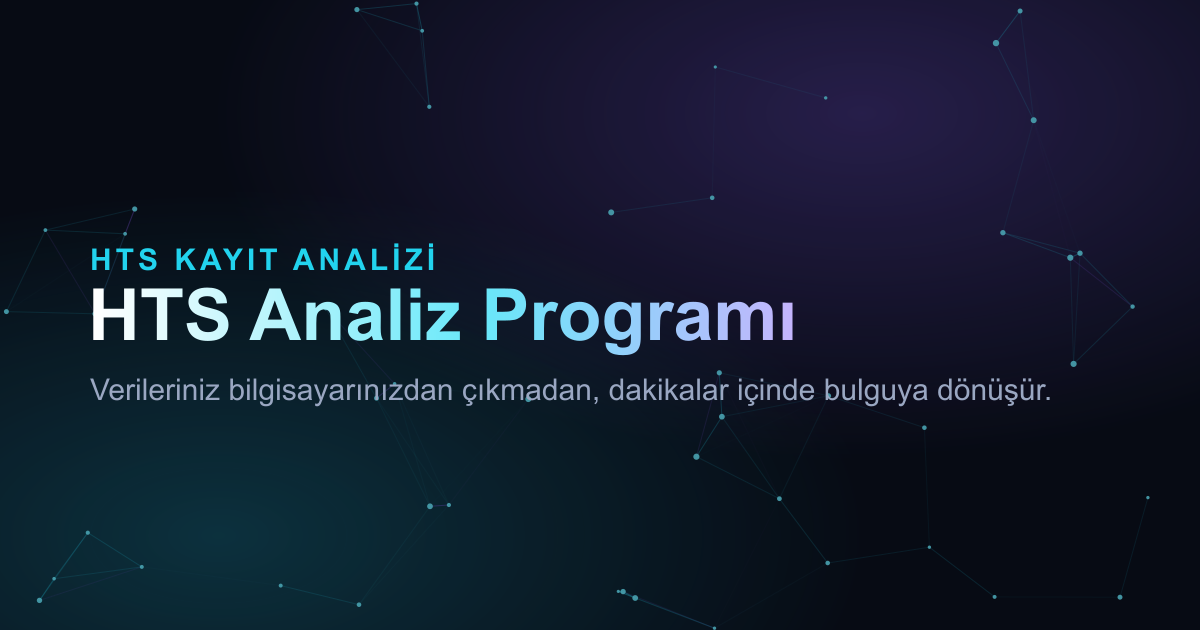
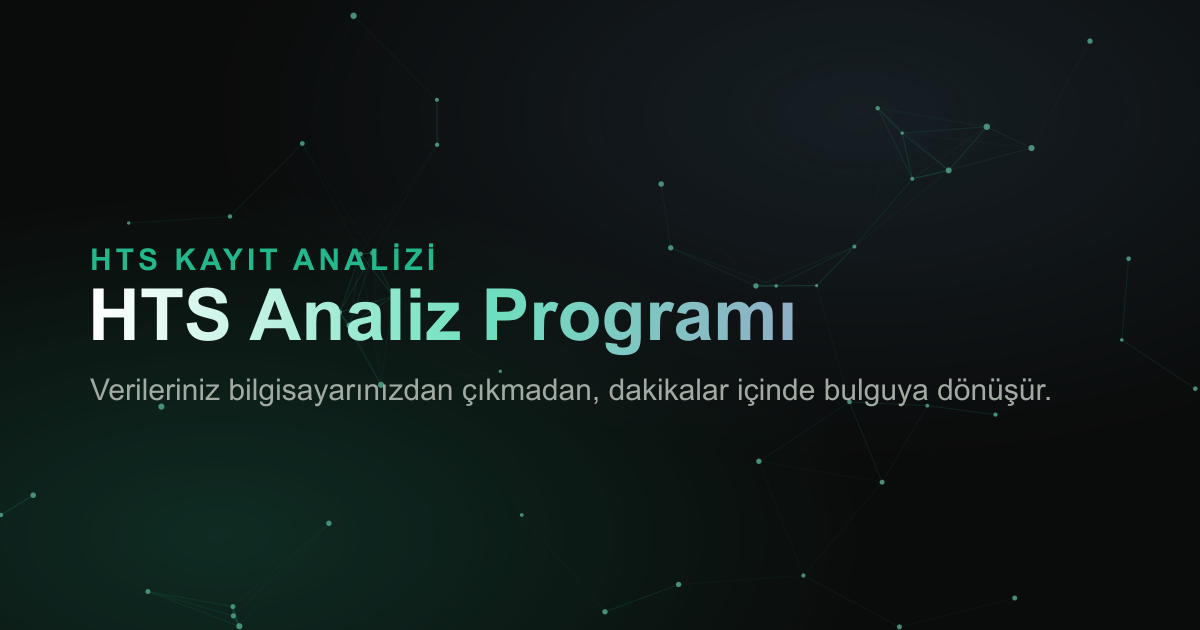
Replace neon cyan/violet palette with muted graphite & jade
The dark-navy + cyan/violet glow combo read as a generic AI-template
look. Swapped to a more restrained graphite base with jade/petrol as
the primary accent and muted slate/clay/sage tones for badge variety
(avoiding amber/honey too, since that's KovanSite's signature color).

diff --git a/src/data/simgeler.ts b/src/data/simgeler.ts
@@ -32,12 +32,12 @@ export const simgeler: Record<SimgeAdi, string> = {
   `,
   konumIsareti: `
     <path d="M12 2c-4 0-7.2 3.1-7.2 7.1 0 5.3 6 11.9 6.7 12.6a.7.7 0 0 0 1 0c.7-.7 6.7-7.3 6.7-12.6C19.2 5.1 16 2 12 2Z" />
-    <circle cx="12" cy="9.2" r="2.6" fill="#070b14" />
+    <circle cx="12" cy="9.2" r="2.6" fill="#0a0c0b" />
   `,
   telefonIz: `
     <rect x="7" y="2" width="10" height="17" rx="2.4" />
-    <rect x="9.4" y="18.4" width="5.2" height="3.6" rx="1.2" fill="#070b14" />
-    <circle cx="12" cy="5.4" r="1" fill="#070b14" />
+    <rect x="9.4" y="18.4" width="5.2" height="3.6" rx="1.2" fill="#0a0c0b" />
+    <circle cx="12" cy="5.4" r="1" fill="#0a0c0b" />
   `,
   zamanCizgisi: `
     <rect x="2" y="11" width="20" height="2" rx="1" opacity="0.5" />
@@ -51,12 +51,12 @@ export const simgeler: Record<SimgeAdi, string> = {
   `,
   dosyaAktar: `
     <path d="M6 2h8l4 4v16H6Z" opacity="0.9" />
-    <path d="M14 2v4h4" fill="#070b14" opacity="0.5" />
-    <path d="M12 10v7m0 0-2.8-2.8M12 17l2.8-2.8" stroke="#070b14" stroke-width="1.8" fill="none" stroke-linecap="round" stroke-linejoin="round" />
+    <path d="M14 2v4h4" fill="#0a0c0b" opacity="0.5" />
+    <path d="M12 10v7m0 0-2.8-2.8M12 17l2.8-2.8" stroke="#0a0c0b" stroke-width="1.8" fill="none" stroke-linecap="round" stroke-linejoin="round" />
   `,
   korumaKalkani: `
     <path d="M12 2 20 5.4v6c0 5.4-3.6 9-8 10.6-4.4-1.6-8-5.2-8-10.6v-6Z" />
-    <path d="M8.6 12.1 11 14.5 15.6 9.6" stroke="#070b14" stroke-width="1.9" fill="none" stroke-linecap="round" stroke-linejoin="round" />
+    <path d="M8.6 12.1 11 14.5 15.6 9.6" stroke="#0a0c0b" stroke-width="1.9" fill="none" stroke-linecap="round" stroke-linejoin="round" />
   `,
   yildirimHiz: `
     <path d="M13.4 1.6 5.2 13.8h5.1L9 22.4l9.4-13.2h-5.6Z" />
@@ -68,11 +68,11 @@ export const simgeler: Record<SimgeAdi, string> = {
   `,
   onayRozeti: `
     <path d="M12 1.6 14.6 4.4 18.3 3.9 18.6 7.6 21.8 9.5 20 12.8 21.8 16.1 18.6 18 18.3 21.7 14.6 21.2 12 24 9.4 21.2 5.7 21.7 5.4 18 2.2 16.1 4 12.8 2.2 9.5 5.4 7.6 5.7 3.9 9.4 4.4Z" />
-    <path d="M8.6 12.3 10.8 14.5 15.4 9.5" stroke="#070b14" stroke-width="1.9" fill="none" stroke-linecap="round" stroke-linejoin="round" />
+    <path d="M8.6 12.3 10.8 14.5 15.4 9.5" stroke="#0a0c0b" stroke-width="1.9" fill="none" stroke-linecap="round" stroke-linejoin="round" />
   `,
   aramaMercek: `
     <circle cx="10.5" cy="10.5" r="7.5" />
-    <circle cx="10.5" cy="10.5" r="4.2" fill="#070b14" opacity="0.55" />
+    <circle cx="10.5" cy="10.5" r="4.2" fill="#0a0c0b" opacity="0.55" />
     <rect x="18.5" y="19.3" width="4.4" height="2.6" rx="1.3" transform="rotate(45 18.5 19.3)" />
   `,
 };

diff --git a/src/styles/global.css b/src/styles/global.css
@@ -6,8 +6,9 @@
 /*
   HTS Analiz Programı — tasarım belirteç katmanı.
 
-  Koyu lacivert taban, camsı (glass) panel yüzeyler, siyan/mor/pembe uçlu
-  çok renkli vurgu paleti. Amaç: analitik/canlı-veri hissi.
+  Koyu grafit taban, camsı (glass) panel yüzeyler, jade/petrol ağırlıklı
+  ölçülü vurgu paleti. Amaç: analitik/canlı-veri hissi — parlak neon
+  gradyan yerine sade, tek aileden zengin tonlar.
 */
 
 @theme {
@@ -16,23 +17,23 @@
   --font-mono: "SFMono-Regular", Consolas, "Liberation Mono", monospace;
 
   /* Taban */
-  --color-zemin: #070b14;
-  --color-zemin-2: #0b1220;
-  --color-panel: #0d1526;
-  --color-panel-cizgi: #1b2740;
-  --color-panel-cizgi-parlak: #2b3a5c;
+  --color-zemin: #0a0c0b;
+  --color-zemin-2: #0e100f;
+  --color-panel: #141715;
+  --color-panel-cizgi: #262a27;
+  --color-panel-cizgi-parlak: #3a4038;
 
   /* Metin */
-  --color-metin: #e7ecf7;
-  --color-metin-ikincil: #9aa7c2;
-  --color-metin-soluk: #64708c;
+  --color-metin: #ecefec;
+  --color-metin-ikincil: #a2aba3;
+  --color-metin-soluk: #6b756c;
 
-  /* Çok renkli vurgu paleti — özellik rozetlerinde dönüşümlü kullanılır */
-  --color-siyan: #22d3ee;
-  --color-mavi: #3b82f6;
-  --color-mor: #8b5cf6;
-  --color-pembe: #ec4899;
-  --color-yesil: #34d399;
+  /* Vurgu paleti — özellik rozetlerinde dönüşümlü kullanılır */
+  --color-siyan: #22b88c;
+  --color-mavi: #5c7a99;
+  --color-mor: #3e5c76;
+  --color-pembe: #b0705a;
+  --color-yesil: #6fa37d;
 
   --radius-panel: 1rem;
   --radius-pill: 999px;
